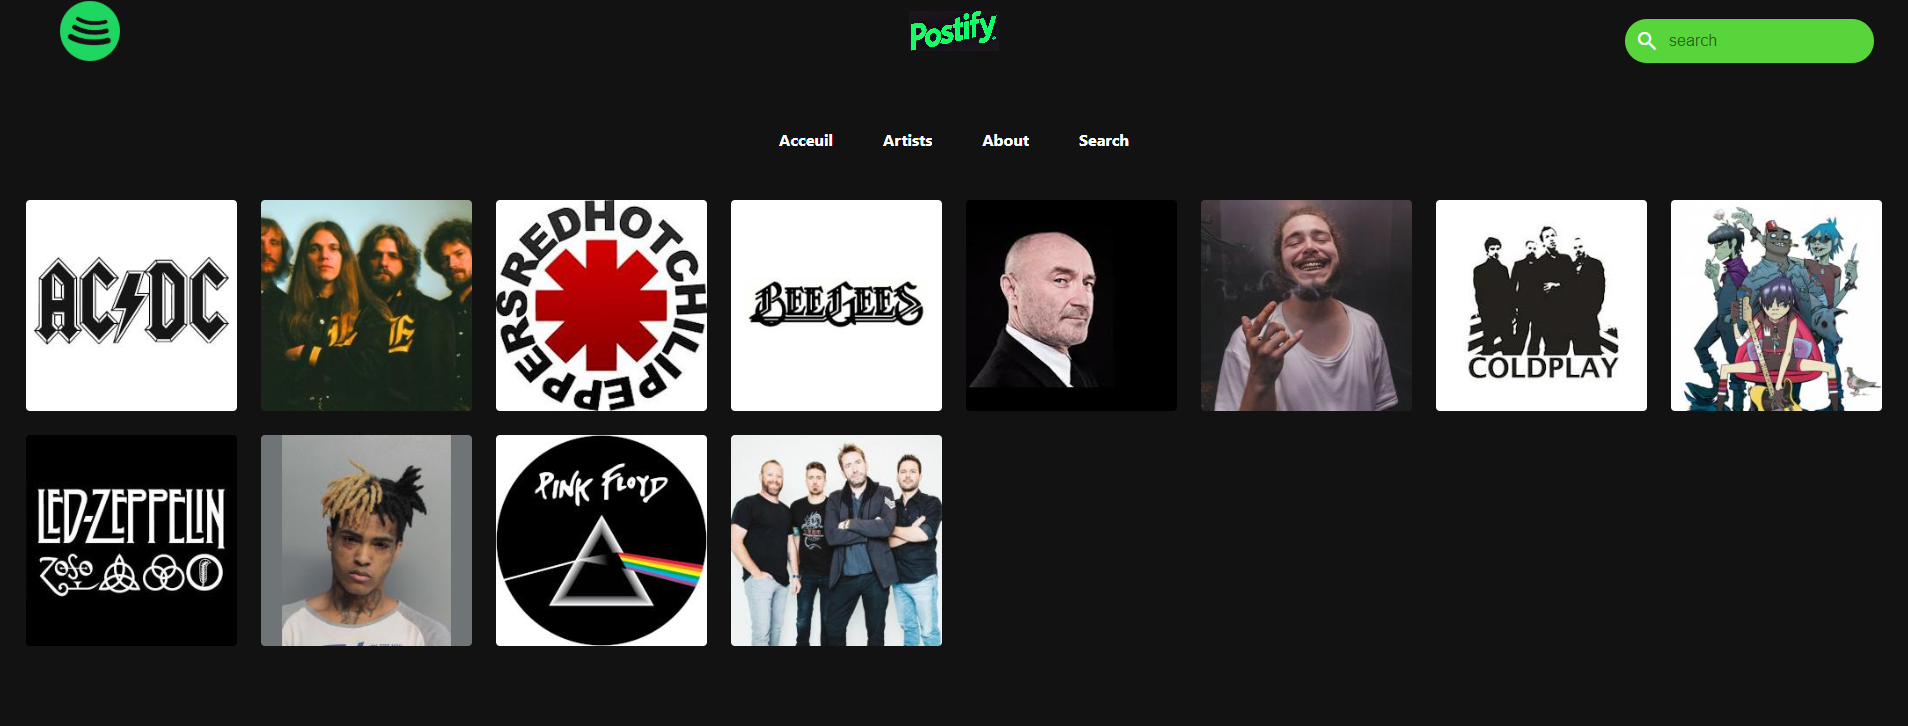
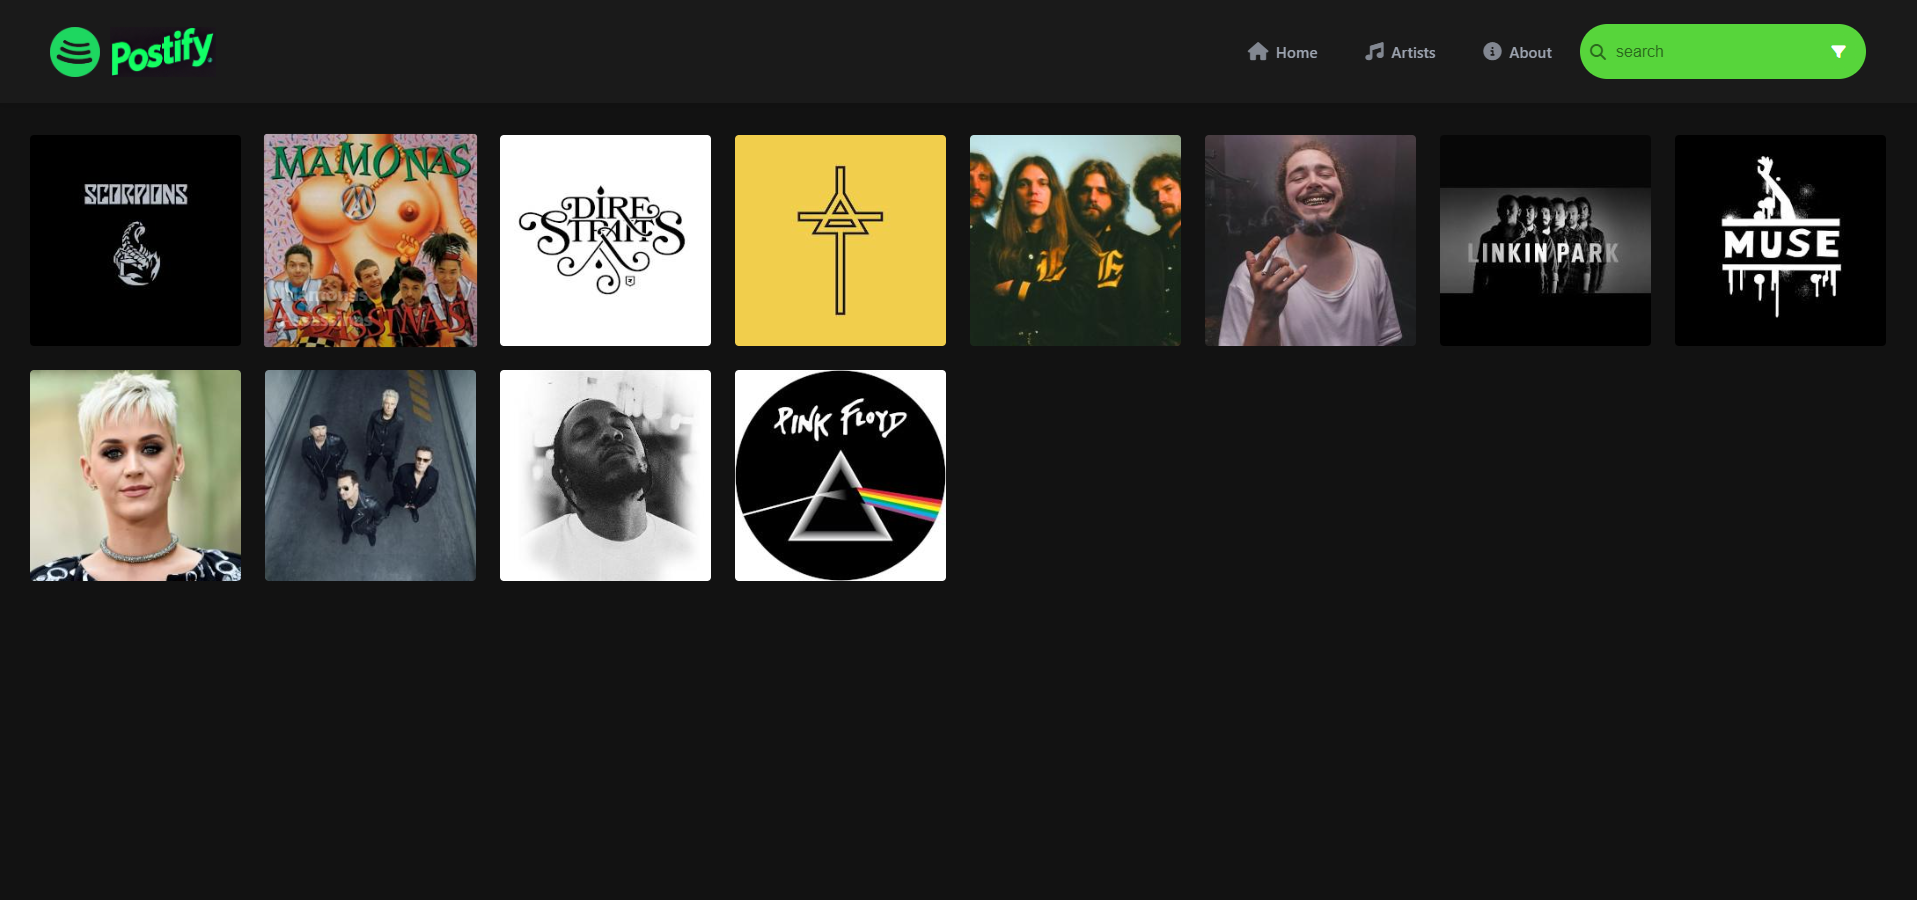
docs: update README with Trello link and project structure details

diff --git a/static/css/style.css b/static/css/style.css
@@ -45,21 +45,13 @@ nav {
 }
 
 .logo {
-    height: 35px;
+    height: 50px;
     width: auto;
 }
 
 .text {
-    height: 35px;
+    height: 50px;
     width: auto;
-}
-
-.nav-links {
-    display: flex;
-    gap: 2rem;
-    align-items: center;
-    margin-right: 20px;
-    margin-left: auto;
 }
 
 .nav-links a {
@@ -156,35 +148,111 @@ li:hover .artist-info {
     opacity: 1;
 }
 
-@media (max-width: 768px) {
-    nav {
-        padding: 1rem;
+/* Responsive styles */
+@media screen and (max-width: 768px) {
+    .nav-container {
+        padding: 0 10px;
+        flex-wrap: wrap;
+        justify-content: center;
+    }
+
+    .logo-container {
+        margin: 0 auto 10px;
+        justify-content: center;
+        width: 100%;
+    }
+
+    .logo {
+        height: 45px;
+    }
+
+    .text {
+        height: 45px;
     }
 
     .nav-links {
-        margin-right: 150px;
-        gap: 1.5rem;
+        margin: 10px auto;
+        justify-content: center;
+        width: 100%;
     }
 
-    .nav-links a {
-        font-size: 0.85rem;
+    form {
+        width: 100%;
+        display: flex;
+        justify-content: center;
+        margin-top: 10px;
     }
 
-    .nav-links a i {
-        font-size: 1rem;
-    }
-
-    .nav-links a span {
-        font-size: 1rem;
-    }
-
-    .logo, .text {
-        height: 28px;
+    .search {
+        width: 100%;
+        max-width: 300px;
     }
 
     ul {
         grid-template-columns: repeat(auto-fill, minmax(150px, 1fr));
-        gap: 1rem;
         padding: 1rem;
+    }
+}
+
+@media screen and (max-width: 480px) {
+    nav {
+        padding: 1rem 0.5rem;
+    }
+
+    .logo {
+        height: 40px;
+    }
+
+    .text {
+        height: 40px;
+    }
+
+    .nav-links {
+        gap: 1.5rem;
+    }
+
+    .nav-links a {
+        padding: 0.5rem 0.7rem;
+        font-size: 1rem;
+        font-weight: 600;
+    }
+
+    .nav-links a i {
+        font-size: 1.5rem;
+    }
+
+    ul {
+        grid-template-columns: repeat(auto-fill, minmax(120px, 1fr));
+        gap: 1rem;
+        padding: 1rem 0.5rem;
+    }
+
+    .artist-info h3 {
+        font-size: 1rem;
+    }
+
+    li {
+        margin-bottom: 0.5rem;
+    }
+
+    li:hover .artist-info {
+        opacity: 1;
+        padding: 0.7rem;
+    }
+}
+
+@media screen and (max-width: 360px) {
+    .logo-container {
+        flex-direction: column;
+        gap: 5px;
+    }
+
+    .nav-links a i {
+        font-size: 1.7rem;
+    }
+
+    ul {
+        grid-template-columns: repeat(auto-fill, minmax(100px, 1fr));
+        gap: 0.8rem;
     }
 }

diff --git a/README.md b/README.md
@@ -29,6 +29,8 @@ The final project repository can be founded [here](https://github.com/zoom260426
 
 And our presentation for the project can be found [here](https://www.canva.com/design/DAGgBIMDB50/dKuQRZQub2fcFYP97AXzcg/edit?utm_content=DAGgBIMDB50&utm_campaign=designshare&utm_medium=link2&utm_source=sharebutton)
 
+And lastly our trello can be found [here](https://trello.com/invite/b/67602859ddbab9490a52b7ec/ATTIc68593987b3cf4f8af880611d2be9febA4F2F9EE/groupie-tracker)
+
 
 ---
 
@@ -48,6 +50,44 @@ go run main.go
 ![alt text](/static/img/presentation_image.png)
 ---
 
+## Project structure
+
+```bash
+Groupie_Tracker/
+├── GetAPI/
+│   ├── GetAPI.go
+│   ├── params.go
+── handler/
+│  ├── Handler.go
+├── static/
+│   ├── css/
+│   │   └── about.css
+│   │   └── artistPage.css
+│   │   └── searchbar.css
+│   │   └── searchPage.css
+│   │   └── style.css
+│   ├── img/
+│   │   ├── TEXT LOGO.PNG
+│   │   └── POSTIFY.png
+│   └── js/
+│       └── filtrevisibility.js
+│       └── map.js
+│       └── slide.js
+│   └── json/
+│       └── info.json
+├── templates/
+│   ├── index.gohtml
+│   └── artistPage.gohtml
+│   └── about.gohtml
+│   └── search.gohtml
+│   └── map.gohtml
+├── .gitignore
+├── go.mod
+├── main.go
+└── README.md
+```
+
+---
 ## 💻 Technologies
 
 The project was developed using the following technologies:
